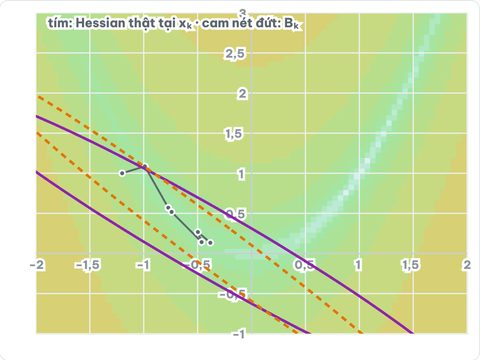
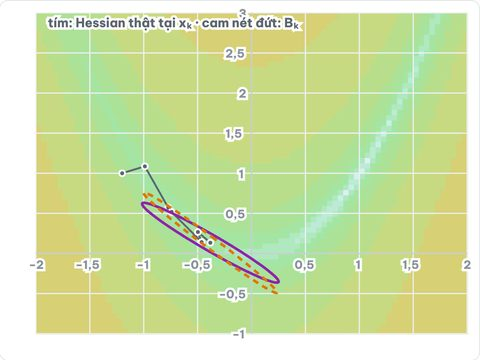
ml-map: Nocedal — elip xấp xỉ Hessian gọn trong khung

diff --git a/ml-map/bai/nw-14/index.html b/ml-map/bai/nw-14/index.html
@@ -2991,7 +2991,7 @@ IX.qnapprox = (box) => {
   function draw() {
     const F = OPTF[sel.value], k = +rk.value; ok.textContent = k; svg.innerHTML = ''; const R = run(F, alg), st = R[Math.min(k, R.length - 1)], G = fgraph(svg, F.xa, F.xb, F.ya, F.yb), Ly = G.layer; contourBg(svg, G, F, 10);
     el(Ly, 'path', { d: R.slice(0, k + 1).map((r, i) => `${i ? 'L' : 'M'}${G.X(r.x[0]).toFixed(1)},${G.Y(r.x[1]).toFixed(1)}`).join(''), fill: 'none', stroke: COL.k, 'stroke-width': 1.6 }); R.slice(0, k + 1).forEach(r => G.dot(Ly, r.x[0], r.x[1], COL.k, false, 2.4));
-    const Ht = F.h(st.x[0], st.x[1], 10), [h1] = eig2s(Ht), L = 0.5 * Math.max(eig2s(Ht)[1], eig2s(st.B)[1]) * 0.25 ** 2; ell(G, Ly, st.x, Ht, COL.v, null, L); const okB = ell(G, Ly, st.x, st.B, COL.o, '5 4', L);
+    const Ht = F.h(st.x[0], st.x[1], 10), [h1] = eig2s(Ht), L = 0.5 * Math.max(Math.abs(eig2s(Ht)[0]), 1e-3) * 0.8 ** 2; ell(G, Ly, st.x, Ht, COL.v, null, L); const okB = ell(G, Ly, st.x, st.B, COL.o, '5 4', L);
     svgText(G.ann, 40, 22, 'tím: Hessian thật tại xₖ · cam nét đứt: Bₖ', COL.k, 10.5);
     const eb = eig2s(st.B), eh = eig2s(Ht);
     out.innerHTML = `<span>k = ${k}: trị riêng của Bₖ (${eb.map(vk).join('; ')}), của Hessian thật (${eh.map(vk).join('; ')})${okB ? '' : ' — Bₖ không xác định dương'}</span><span>${k ? `phương trình secant Bₖsₖ₋₁ = yₖ₋₁: sai lệch tương đối ${st.sec < 1e-9 ? '0' : vk(st.sec)}${st.skip ? ' · vòng này bỏ qua cập nhật' : ''}` : 'B₀ = I'}</span><span>${alg === 'bfgs' ? 'BFGS giữ Bₖ xác định dương (nhờ yᵀs > 0)' : 'SR1 có thể cho Bₖ không xác định dương, nhưng thường xấp xỉ Hessian sát hơn'}</span>`;

diff --git a/ml-map/bai/nw-15/index.html b/ml-map/bai/nw-15/index.html
@@ -2985,7 +2985,7 @@ IX.qnapprox = (box) => {
   function draw() {
     const F = OPTF[sel.value], k = +rk.value; ok.textContent = k; svg.innerHTML = ''; const R = run(F, alg), st = R[Math.min(k, R.length - 1)], G = fgraph(svg, F.xa, F.xb, F.ya, F.yb), Ly = G.layer; contourBg(svg, G, F, 10);
     el(Ly, 'path', { d: R.slice(0, k + 1).map((r, i) => `${i ? 'L' : 'M'}${G.X(r.x[0]).toFixed(1)},${G.Y(r.x[1]).toFixed(1)}`).join(''), fill: 'none', stroke: COL.k, 'stroke-width': 1.6 }); R.slice(0, k + 1).forEach(r => G.dot(Ly, r.x[0], r.x[1], COL.k, false, 2.4));
-    const Ht = F.h(st.x[0], st.x[1], 10), [h1] = eig2s(Ht), L = 0.5 * Math.max(eig2s(Ht)[1], eig2s(st.B)[1]) * 0.25 ** 2; ell(G, Ly, st.x, Ht, COL.v, null, L); const okB = ell(G, Ly, st.x, st.B, COL.o, '5 4', L);
+    const Ht = F.h(st.x[0], st.x[1], 10), [h1] = eig2s(Ht), L = 0.5 * Math.max(Math.abs(eig2s(Ht)[0]), 1e-3) * 0.8 ** 2; ell(G, Ly, st.x, Ht, COL.v, null, L); const okB = ell(G, Ly, st.x, st.B, COL.o, '5 4', L);
     svgText(G.ann, 40, 22, 'tím: Hessian thật tại xₖ · cam nét đứt: Bₖ', COL.k, 10.5);
     const eb = eig2s(st.B), eh = eig2s(Ht);
     out.innerHTML = `<span>k = ${k}: trị riêng của Bₖ (${eb.map(vk).join('; ')}), của Hessian thật (${eh.map(vk).join('; ')})${okB ? '' : ' — Bₖ không xác định dương'}</span><span>${k ? `phương trình secant Bₖsₖ₋₁ = yₖ₋₁: sai lệch tương đối ${st.sec < 1e-9 ? '0' : vk(st.sec)}${st.skip ? ' · vòng này bỏ qua cập nhật' : ''}` : 'B₀ = I'}</span><span>${alg === 'bfgs' ? 'BFGS giữ Bₖ xác định dương (nhờ yᵀs > 0)' : 'SR1 có thể cho Bₖ không xác định dương, nhưng thường xấp xỉ Hessian sát hơn'}</span>`;
